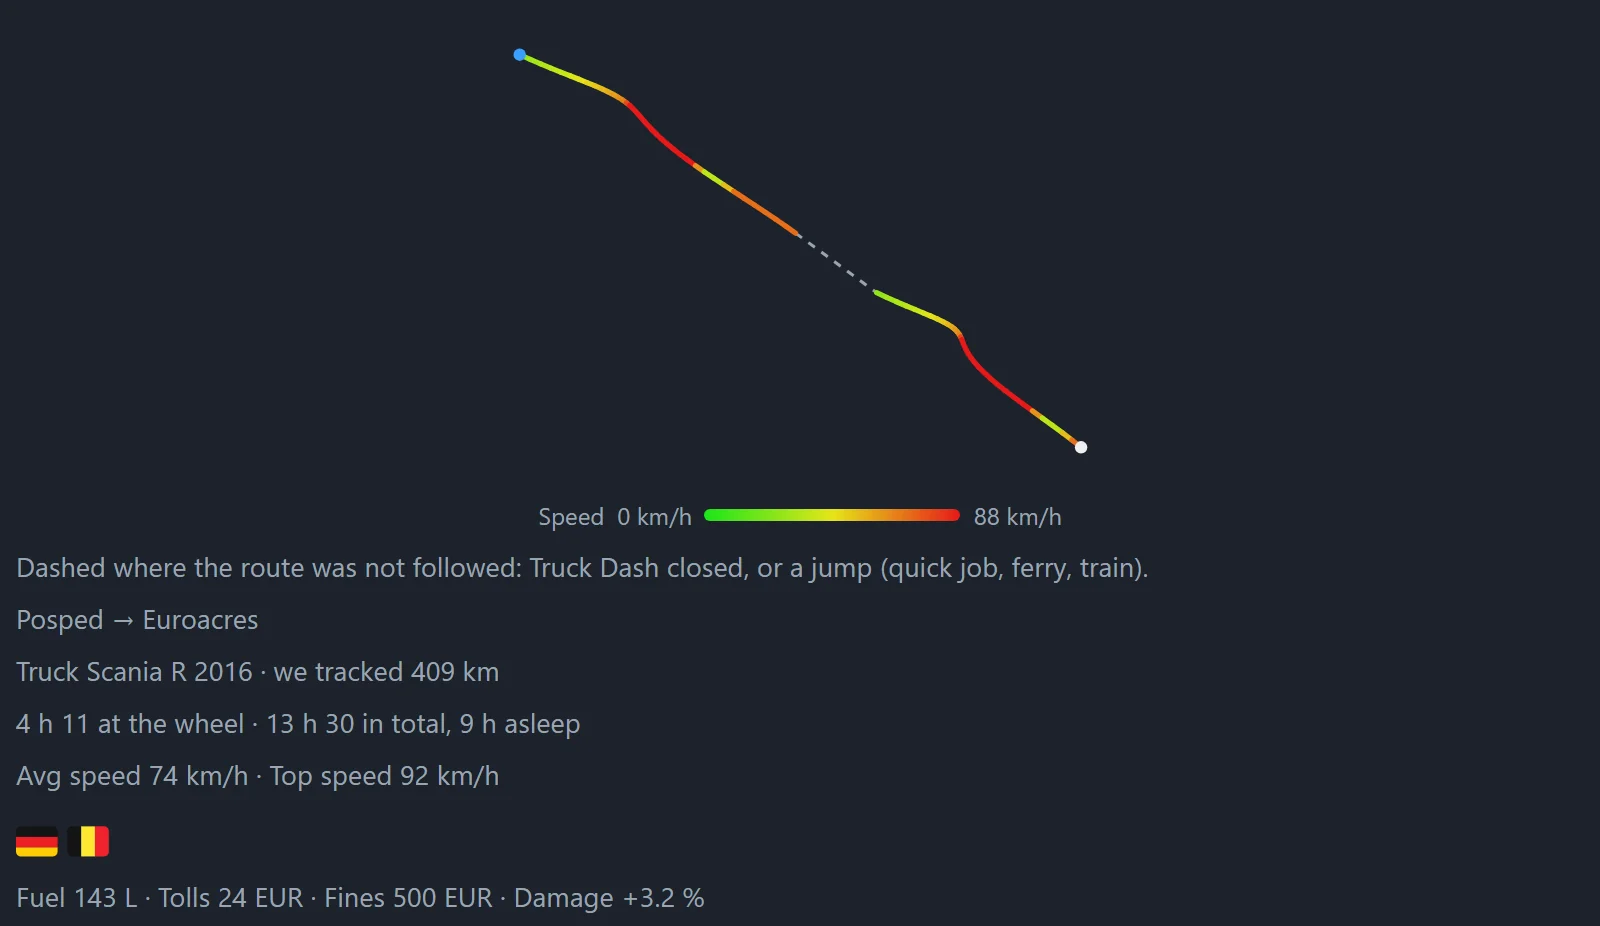
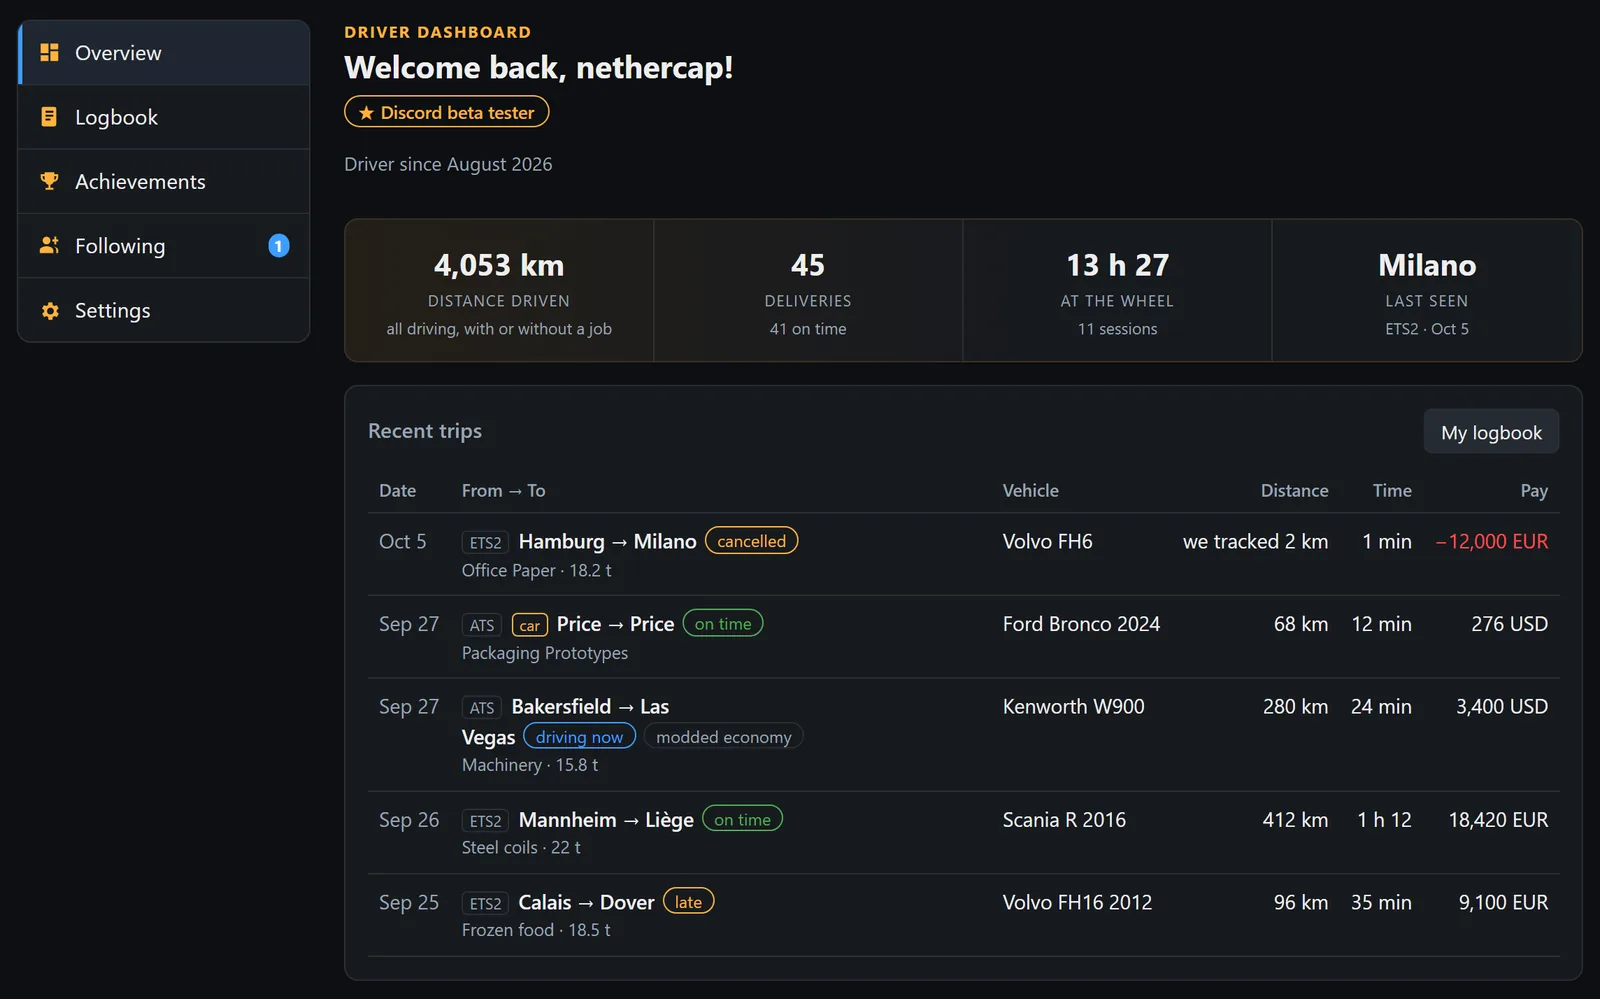
landing: capturas nuevas, hero sin repetir las chapitas y menu de 8 links
- demo.webp grabada de nuevo: la vieja era de la interfaz anterior
  (autopistas naranjas con la ruta dibujada). record_demo.py ahora graba
  con la GPU y despues de 40 s: sin GPU los tiles no llegaban a bajar y la
  demo arranca en un patio sin nada que ver; asi sale pasando Provo.
- cuentas-landing.webp: la vista general de la cuenta (stub) en vez del
  detalle de un viaje, que era un recuadro casi vacio con una linea.
- El texto del hero ya no repite "gratis, sin cuenta, sin limites,
  abierto": lo dicen las chapitas de abajo.
- Sin el emoji del contador.
- "Free vs paid" y "Roadmap" pasan al pie (siguen en el menu del
  celular). Con 8 links el menu entra hasta ~820 px en castellano: el
  subtitulo se va bajo 1040 y el menu lateral aparece bajo 900.

diff --git a/docs/es/index.html b/docs/es/index.html
@@ -123,11 +123,13 @@
   #sidebar a { color: var(--text); font-size: 1.05rem; }
   #sidebar .closeBtn { align-self: flex-end; background: none; border: none; color: var(--text); font-size: 1.4rem; cursor: pointer; }
 
-  /* Diez links no entran en una tablet ni en una laptop chica: entre 860 y
-     1200 px partian el nombre y los links en dos renglones. Primero se va
-     el subtitulo, despues todo pasa al menu lateral. */
-  @media (max-width: 1240px) { header .brand .sub { display: none; } }
-  @media (max-width: 1080px) {
+  /* Con diez links, entre 860 y 1200 px se partian el nombre y los links en
+     dos renglones. Ahora son ocho (comparar y roadmap estan en el pie y en
+     el menu lateral). Medido en castellano, que es el mas largo: sin el
+     subtitulo entran hasta ~820 px. Primero se va el subtitulo, despues
+     todo pasa al menu lateral. */
+  @media (max-width: 1040px) { header .brand .sub { display: none; } }
+  @media (max-width: 900px) {
     nav.desktopNav { display: none; }
     .menuBtn { display: block; }
   }
@@ -407,10 +409,8 @@
     <a href="#get-started" data-i18n="navGetStarted">Empezar</a>
     <a href="#features" data-i18n="navFeatures">Funciones</a>
     <a href="#community" data-i18n="navCommunity">Comunidad</a>
-    <a href="#compare" data-i18n="navCompare">Gratis vs pagas</a>
     <a href="#mods" data-i18n="navMods">Mods</a>
     <a href="#faq" data-i18n="navFaq">Preguntas</a>
-    <a href="#roadmap" data-i18n="navRoadmap">Roadmap</a>
     <a href="/live/" data-i18n="navLive">Mapa en vivo</a>
     <a class="signInLink" href="/account/" data-i18n="navSignIn">Entrar</a>
     <a class="langBtn" data-lang-link href="/">EN</a>
@@ -438,7 +438,7 @@
     <div>
       <p class="kicker" data-i18n="kicker">Para Euro Truck Simulator 2 y American Truck Simulator</p>
       <h1 data-i18n="heroTitle">Tu celular ahora es un <span class="accent">GPS real</span> para tu simulador de camiones.</h1>
-      <p class="tagline" data-i18n="heroTagline">Mapa en vivo con rutas reales, indicaciones de giro, límite de velocidad, combustible y desgaste, más una botonera para controlar el camión — en tu celular, tablet o segundo monitor. 100% gratis, sin cuenta obligatoria, sin límites, código abierto.</p>
+      <p class="tagline" data-i18n="heroTagline">Mapa en vivo con rutas reales, indicaciones de giro, límite de velocidad, combustible y desgaste, más una botonera para controlar el camión, en tu celular, tablet o segundo monitor.</p>
       <div class="ctaRow">
         <a href="https://github.com/Nethercap/truck-companion/releases/latest" target="_blank" rel="noopener" class="cta">
           <svg viewBox="0 0 24 24" width="18" height="18" fill="none" stroke="currentColor" stroke-width="2"><path d="M12 3v12m0 0l-4-4m4 4l4-4"/><path d="M4 17v2a2 2 0 0 0 2 2h12a2 2 0 0 0 2-2v-2"/></svg>
@@ -635,7 +635,7 @@
         </div>
         <p class="ctaNote" data-i18n="accountsNote">Opcional: todo lo demás funciona sin cuenta, y no se guarda nada hasta que lo vinculás.</p>
       </div>
-      <img class="accountsShot" src="/assets/cuentas-landing.webp" alt="A trip in a Truck Dash account: the route colored by speed, times, countries and costs" width="1600" height="926" loading="lazy" onclick="openLightbox(this.src)" />
+      <img class="accountsShot" src="/assets/cuentas-landing.webp" alt="A Truck Dash account: distance, deliveries and hours driven, and the latest trips with their status, truck, distance and pay" width="1600" height="999" loading="lazy" onclick="openLightbox(this.src)" />
     </div>
   </section>
 
@@ -803,6 +803,8 @@
     <div class="footerLinks">
       <a href="/app/" data-i18n="footerApp">Abrir el tablero</a>
       <a href="/guide/" data-i18n="footerGuide">Guía de uso</a>
+      <a href="#compare" data-i18n="navCompare">Gratis vs pagas</a>
+      <a href="#roadmap" data-i18n="navRoadmap">Roadmap</a>
       <a href="https://github.com/Nethercap/truck-companion" target="_blank" rel="noopener">GitHub</a>
       <a href="https://github.com/Nethercap/truck-companion/releases" target="_blank" rel="noopener" data-i18n="changelogLink">Novedades / releases</a>
       <a href="/privacy.html" data-i18n="privacyLink">Política de privacidad</a>
@@ -861,7 +863,7 @@ const TRANSLATIONS = {
     navCommunity: 'Community',
     kicker: 'For Euro Truck Simulator 2 &amp; American Truck Simulator',
     heroTitle: 'Your phone is now a <span class="accent">real GPS</span> for your truck sim.',
-    heroTagline: 'Live map with real roads, turn-by-turn directions, speed limit, fuel and wear, plus a button box to control your truck — on your phone, tablet or second screen. 100% free, no account needed, no limits, open source.',
+    heroTagline: 'Live map with real roads, turn-by-turn directions, speed limit, fuel and wear, plus a button box to control your truck, on your phone, tablet or second screen.',
     heroCta: 'Download for Windows',
     heroCta2: 'How it works',
     heroDemo: 'See the live demo',
@@ -872,7 +874,7 @@ const TRANSLATIONS = {
     badgeNoLimits: 'No routing limits, no ads',
     badgeOpenSource: 'Open source',
     heroDiscord: 'Join our Discord',
-    driverCounterText: '🚚 {n} drivers have tracked their jobs with Truck Dash so far',
+    driverCounterText: '{n} drivers have tracked their jobs with Truck Dash so far',
     jobsDeliveredText: '{n} jobs delivered',
     gsTitle: 'Up and running in <span class="accent">two minutes</span>',
     gsIntro: 'No installer, no sign-up, no admin rights. Three steps, once.',
@@ -1061,7 +1063,7 @@ const TRANSLATIONS = {
     navCommunity: 'Comunidad',
     kicker: 'Para Euro Truck Simulator 2 y American Truck Simulator',
     heroTitle: 'Tu celular ahora es un <span class="accent">GPS real</span> para tu simulador de camiones.',
-    heroTagline: 'Mapa en vivo con rutas reales, indicaciones de giro, límite de velocidad, combustible y desgaste, más una botonera para controlar el camión — en tu celular, tablet o segundo monitor. 100% gratis, sin cuenta obligatoria, sin límites, código abierto.',
+    heroTagline: 'Mapa en vivo con rutas reales, indicaciones de giro, límite de velocidad, combustible y desgaste, más una botonera para controlar el camión, en tu celular, tablet o segundo monitor.',
     heroCta: 'Descargar para Windows',
     heroCta2: 'Cómo funciona',
     heroDemo: 'Ver la demo en vivo',
@@ -1072,7 +1074,7 @@ const TRANSLATIONS = {
     badgeNoLimits: 'Sin límite de rutas, sin publicidad',
     badgeOpenSource: 'Código abierto',
     heroDiscord: 'Unite a nuestro Discord',
-    driverCounterText: '🚚 {n} camioneros ya trackearon sus viajes con Truck Dash',
+    driverCounterText: '{n} camioneros ya trackearon sus viajes con Truck Dash',
     jobsDeliveredText: '{n} trabajos entregados',
     gsTitle: 'Listo en <span class="accent">dos minutos</span>',
     gsIntro: 'Sin instalador, sin registrarte, sin permisos de administrador. Tres pasos, una sola vez.',

diff --git a/docs/index.html b/docs/index.html
@@ -123,11 +123,13 @@
   #sidebar a { color: var(--text); font-size: 1.05rem; }
   #sidebar .closeBtn { align-self: flex-end; background: none; border: none; color: var(--text); font-size: 1.4rem; cursor: pointer; }
 
-  /* Diez links no entran en una tablet ni en una laptop chica: entre 860 y
-     1200 px partian el nombre y los links en dos renglones. Primero se va
-     el subtitulo, despues todo pasa al menu lateral. */
-  @media (max-width: 1240px) { header .brand .sub { display: none; } }
-  @media (max-width: 1080px) {
+  /* Con diez links, entre 860 y 1200 px se partian el nombre y los links en
+     dos renglones. Ahora son ocho (comparar y roadmap estan en el pie y en
+     el menu lateral). Medido en castellano, que es el mas largo: sin el
+     subtitulo entran hasta ~820 px. Primero se va el subtitulo, despues
+     todo pasa al menu lateral. */
+  @media (max-width: 1040px) { header .brand .sub { display: none; } }
+  @media (max-width: 900px) {
     nav.desktopNav { display: none; }
     .menuBtn { display: block; }
   }
@@ -407,10 +409,8 @@
     <a href="#get-started" data-i18n="navGetStarted">Get started</a>
     <a href="#features" data-i18n="navFeatures">Features</a>
     <a href="#community" data-i18n="navCommunity">Community</a>
-    <a href="#compare" data-i18n="navCompare">Free vs paid</a>
     <a href="#mods" data-i18n="navMods">Mods</a>
     <a href="#faq" data-i18n="navFaq">FAQ</a>
-    <a href="#roadmap" data-i18n="navRoadmap">Roadmap</a>
     <a href="/live/" data-i18n="navLive">Live map</a>
     <a class="signInLink" href="/account/" data-i18n="navSignIn">Sign in</a>
     <a class="langBtn" data-lang-link href="/es/">ES</a>
@@ -438,7 +438,7 @@
     <div>
       <p class="kicker" data-i18n="kicker">For Euro Truck Simulator 2 &amp; American Truck Simulator</p>
       <h1 data-i18n="heroTitle">Your phone is now a <span class="accent">real GPS</span> for your truck sim.</h1>
-      <p class="tagline" data-i18n="heroTagline">Live map with real roads, turn-by-turn directions, speed limit, fuel and wear, plus a button box to control your truck — on your phone, tablet or second screen. 100% free, no account needed, no limits, open source.</p>
+      <p class="tagline" data-i18n="heroTagline">Live map with real roads, turn-by-turn directions, speed limit, fuel and wear, plus a button box to control your truck, on your phone, tablet or second screen.</p>
       <div class="ctaRow">
         <a href="https://github.com/Nethercap/truck-companion/releases/latest" target="_blank" rel="noopener" class="cta">
           <svg viewBox="0 0 24 24" width="18" height="18" fill="none" stroke="currentColor" stroke-width="2"><path d="M12 3v12m0 0l-4-4m4 4l4-4"/><path d="M4 17v2a2 2 0 0 0 2 2h12a2 2 0 0 0 2-2v-2"/></svg>
@@ -635,7 +635,7 @@
         </div>
         <p class="ctaNote" data-i18n="accountsNote">Optional: everything else works without an account, and nothing is saved until you link it.</p>
       </div>
-      <img class="accountsShot" src="/assets/cuentas-landing.webp" alt="A trip in a Truck Dash account: the route colored by speed, times, countries and costs" width="1600" height="926" loading="lazy" onclick="openLightbox(this.src)" />
+      <img class="accountsShot" src="/assets/cuentas-landing.webp" alt="A Truck Dash account: distance, deliveries and hours driven, and the latest trips with their status, truck, distance and pay" width="1600" height="999" loading="lazy" onclick="openLightbox(this.src)" />
     </div>
   </section>
 
@@ -803,6 +803,8 @@
     <div class="footerLinks">
       <a href="/app/" data-i18n="footerApp">Open dashboard</a>
       <a href="/guide/" data-i18n="footerGuide">User guide</a>
+      <a href="#compare" data-i18n="navCompare">Free vs paid</a>
+      <a href="#roadmap" data-i18n="navRoadmap">Roadmap</a>
       <a href="https://github.com/Nethercap/truck-companion" target="_blank" rel="noopener">GitHub</a>
       <a href="https://github.com/Nethercap/truck-companion/releases" target="_blank" rel="noopener" data-i18n="changelogLink">Changelog / releases</a>
       <a href="/privacy.html" data-i18n="privacyLink">Privacy policy</a>
@@ -861,7 +863,7 @@ const TRANSLATIONS = {
     navCommunity: 'Community',
     kicker: 'For Euro Truck Simulator 2 &amp; American Truck Simulator',
     heroTitle: 'Your phone is now a <span class="accent">real GPS</span> for your truck sim.',
-    heroTagline: 'Live map with real roads, turn-by-turn directions, speed limit, fuel and wear, plus a button box to control your truck — on your phone, tablet or second screen. 100% free, no account needed, no limits, open source.',
+    heroTagline: 'Live map with real roads, turn-by-turn directions, speed limit, fuel and wear, plus a button box to control your truck, on your phone, tablet or second screen.',
     heroCta: 'Download for Windows',
     heroCta2: 'How it works',
     heroDemo: 'See the live demo',
@@ -872,7 +874,7 @@ const TRANSLATIONS = {
     badgeNoLimits: 'No routing limits, no ads',
     badgeOpenSource: 'Open source',
     heroDiscord: 'Join our Discord',
-    driverCounterText: '🚚 {n} drivers have tracked their jobs with Truck Dash so far',
+    driverCounterText: '{n} drivers have tracked their jobs with Truck Dash so far',
     jobsDeliveredText: '{n} jobs delivered',
     gsTitle: 'Up and running in <span class="accent">two minutes</span>',
     gsIntro: 'No installer, no sign-up, no admin rights. Three steps, once.',
@@ -1061,7 +1063,7 @@ const TRANSLATIONS = {
     navCommunity: 'Comunidad',
     kicker: 'Para Euro Truck Simulator 2 y American Truck Simulator',
     heroTitle: 'Tu celular ahora es un <span class="accent">GPS real</span> para tu simulador de camiones.',
-    heroTagline: 'Mapa en vivo con rutas reales, indicaciones de giro, límite de velocidad, combustible y desgaste, más una botonera para controlar el camión — en tu celular, tablet o segundo monitor. 100% gratis, sin cuenta obligatoria, sin límites, código abierto.',
+    heroTagline: 'Mapa en vivo con rutas reales, indicaciones de giro, límite de velocidad, combustible y desgaste, más una botonera para controlar el camión, en tu celular, tablet o segundo monitor.',
     heroCta: 'Descargar para Windows',
     heroCta2: 'Cómo funciona',
     heroDemo: 'Ver la demo en vivo',
@@ -1072,7 +1074,7 @@ const TRANSLATIONS = {
     badgeNoLimits: 'Sin límite de rutas, sin publicidad',
     badgeOpenSource: 'Código abierto',
     heroDiscord: 'Unite a nuestro Discord',
-    driverCounterText: '🚚 {n} camioneros ya trackearon sus viajes con Truck Dash',
+    driverCounterText: '{n} camioneros ya trackearon sus viajes con Truck Dash',
     jobsDeliveredText: '{n} trabajos entregados',
     gsTitle: 'Listo en <span class="accent">dos minutos</span>',
     gsIntro: 'Sin instalador, sin registrarte, sin permisos de administrador. Tres pasos, una sola vez.',

diff --git a/tools/record_demo.py b/tools/record_demo.py
@@ -25,12 +25,17 @@ WIDTH, HEIGHT = 960, 600   # viewport de captura (relacion 16:10, mas cerca de u
 OUT_WIDTH = 720            # ancho final del webp
 FPS = 4
 SECONDS = 14
+# La demo arranca en el patio de Coastline Mining, donde no hay nada que ver,
+# y sin GPU (swiftshader) los tiles tardan: la grabacion de 10-2026 salio con
+# el mapa casi vacio. Se graba con la GPU real y despues de ~40 s, cuando el
+# camion ya va por la US-189 junto al lago Utah, con Provo a la vista.
+WARMUP = 40
 
 
 def main():
     frames = []
     with sync_playwright() as p:
-        browser = p.chromium.launch()
+        browser = p.chromium.launch(args=["--use-angle=d3d11", "--enable-gpu", "--ignore-gpu-blocklist"])
         page = browser.new_page(viewport={"width": WIDTH, "height": HEIGHT}, device_scale_factor=1)
         # Sin tour y en ingles, decidido ANTES de que cargue la app (el tour
         # arranca solo en la primera visita y el idioma se lee al inicio).
@@ -44,7 +49,8 @@ def main():
         # bajen los tiles.
         page.wait_for_function("() => typeof lastWorldPos !== 'undefined' && lastWorldPos && currentRouteWorldPoints", timeout=60000)
         page.evaluate("() => setNavMode(true)")
-        time.sleep(4)
+        time.sleep(WARMUP)
+        page.wait_for_function("() => map.areTilesLoaded()", timeout=30000)
         for _ in range(FPS * SECONDS):
             t0 = time.time()
             frames.append(Image.open(io.BytesIO(page.screenshot(type="png"))).convert("RGB"))
